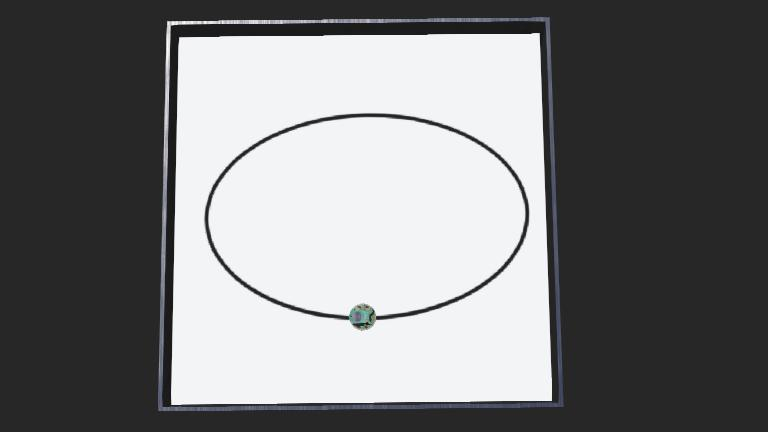
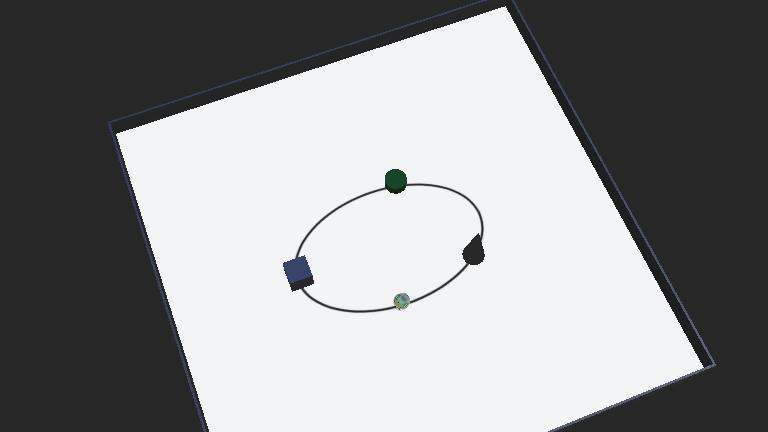
tän päivän muokkaukset, ei toimiva koodi

diff --git a/linefollower/controllers/line_followerrrr/line_followerrrr.py b/linefollower/controllers/line_followerrrr/line_followerrrr.py
@@ -1,91 +1,292 @@
-
 from controller import Robot
+
 
 def line_follower(robot):
     timestep = 32
     max_speed = 6.28
     base_speed = 0.65 * max_speed
 
-    # Motors
+    # Moottorit
     left_motor = robot.getDevice('left wheel motor')
     right_motor = robot.getDevice('right wheel motor')
 
     left_motor.setPosition(float('inf'))
     right_motor.setPosition(float('inf'))
-
     left_motor.setVelocity(0.0)
     right_motor.setVelocity(0.0)
 
-    # IR sensors
+    # Alkuperäiset viiva-anturit
     left_ir = robot.getDevice('ir0')
     right_ir = robot.getDevice('ir1')
-
     left_ir.enable(timestep)
     right_ir.enable(timestep)
 
-    # Tune these values for your robot
+    # E-puckin kahdeksan läheisyysanturia
+    ps_sensors = []
+    for i in range(8):
+        sensor = robot.getDevice('ps' + str(i))
+        sensor.enable(timestep)
+        ps_sensors.append(sensor)
+
+    # Viivanseurannan asetukset
     kp = 0.12
     last_error = 1.0
     lost_count = 0
 
+    # Esteväistön asetukset
+    obstacle_threshold = 100.0
+    turn_speed = 0.35 * max_speed
+    pass_speed = 0.35 * max_speed
+
+    turn_steps = 16
+    min_pass_steps = 35
+    max_pass_steps = 100
+    clear_steps_required = 15
+    max_search_steps = 200
+
+    # Tilat: follow, turn, pass, search
+    state = 'follow'
+    state_count = 0
+    clear_count = 0
+
+    # +1 = väistä vasemmalle
+    # -1 = väistä oikealle
+    avoid_direction = 1
+
     while robot.step(timestep) != -1:
+
+        # Lue kaikki esteanturit
+        ps = [sensor.getValue() for sensor in ps_sensors]
+        if state == 'pass':
+                print(
+                    "Ohitusanturit:",
+                    [round(value, 1) for value in ps]
+                )
+
+        right_strength = max(ps[0], ps[1])
+        left_strength = max(ps[5], ps[6], ps[7])
+
+        obstacle_detected = max(ps) > obstacle_threshold
+
+        # Viiva-anturit
         left = left_ir.getValue()
         right = right_ir.getValue()
 
-        print("Left: {:.2f}, Right: {:.2f}".format(left, right))
-
-        # Treat maximum readings as possible sensor saturation.
-        # Verify this assumption against your sensor configuration.
         left_valid = left < 50
         right_valid = right < 50
 
-        if not left_valid and not right_valid:
-            # Both sensors lost: search in the last known direction.
-            lost_count += 1
-            search_speed = 0.25 * max_speed
+        left_speed = 0.0
+        right_speed = 0.0
 
-            if last_error >= 0:
-                left_speed = search_speed
-                right_speed = -search_speed
+        # 1. NORMAALI VIIVAN SEURAAMINEN
+        if state == 'follow':
+
+            if obstacle_detected:
+                if right_strength > left_strength:
+                    avoid_direction = 1
+                elif left_strength > right_strength:
+                    avoid_direction = -1
+                else:
+                    avoid_direction = 1 if last_error >= 0 else -1
+
+                state = 'turn'
+                state_count = 0
+                clear_count = 0
+                lost_count = 0
+
+                print(
+                    "Este havaittu:",
+                    "oikea =", round(right_strength, 1),
+                    "vasen =", round(left_strength, 1),
+                    "väistösuunta =", avoid_direction
+                )
+
+                left_speed = -avoid_direction * turn_speed
+                right_speed = avoid_direction * turn_speed
+
             else:
-                left_speed = -search_speed
-                right_speed = search_speed
+                # Alkuperäinen viivanseuranta
+                if not left_valid and not right_valid:
+                    lost_count += 1
+                    search_speed = 0.25 * max_speed
 
-            # Stop searching if the line is lost for too long.
-            if lost_count > 100:
+                    if last_error >= 0:
+                        left_speed = search_speed
+                        right_speed = -search_speed
+                    else:
+                        left_speed = -search_speed
+                        right_speed = search_speed
+
+                    if lost_count > 100:
+                        left_speed = 0.0
+                        right_speed = 0.0
+
+                elif not left_valid or not right_valid:
+                    lost_count += 1
+                    search_speed = 0.20 * max_speed
+
+                    if not left_valid:
+                        left_speed = -search_speed
+                        right_speed = search_speed
+                        last_error = -1.0
+                    else:
+                        left_speed = search_speed
+                        right_speed = -search_speed
+                        last_error = 1.0
+
+                else:
+                    lost_count = 0
+                    error = left - right
+
+                    if abs(error) > 0.05:
+                        last_error = error
+
+                    correction = kp * error
+
+                    left_speed = base_speed - correction
+                    right_speed = base_speed + correction
+
+                    left_speed = max(
+                        -max_speed, min(max_speed, left_speed)
+                    )
+                    right_speed = max(
+                        -max_speed, min(max_speed, right_speed)
+                    )
+
+        # 2. KÄÄNNY POIS ESTEESTÄ
+        elif state == 'turn':
+
+            left_speed = -avoid_direction * turn_speed
+            right_speed = avoid_direction * turn_speed
+
+            state_count += 1
+
+            if state_count >= turn_steps:
+                state = 'pass'
+                state_count = 0
+                clear_count = 0
+                print("Käännös valmis, ajetaan esteen ohi")
+
+        # 3. AJA ESTEEN OHI
+        
+        elif state == 'pass':
+
+            state_count += 1
+
+            # Anturiryhmät kuution ohitusta varten.
+            # ps0 ja ps1 reagoivat voimakkaasti esteeseen.
+            right_strength = max(ps[0], ps[1])
+            left_strength = max(ps[5], ps[6], ps[7])
+
+            # Käytetään myös ps2:ta, koska se reagoi
+            # voimakkaasti kuution lähestyessä.
+            front_strength = ps[2]
+
+            # Perusnopeus ohituksen aikana
+            pass_speed = 0.35 * max_speed
+
+            # Voimakas havainto ps0/ps1-ryhmässä:
+            # käännytään poispäin oikean puolen esteestä.
+            # Voimakas havainto vasemmalla:
+            # käännytään poispäin vasemman puolen esteestä.
+            right_pressure = max(0.0, right_strength - 80.0)
+            left_pressure = max(0.0, left_strength - 80.0)
+
+            # Jos etuanturi reagoi voimakkaasti, käännytään
+            # poispäin sen puolen estehavainnosta.
+            front_pressure = max(0.0, front_strength - 100.0)
+
+            # Valitaan ohjaussuunta mitattujen anturien perusteella.
+            steering = right_pressure - left_pressure
+
+            if front_pressure > 0:
+                steering += avoid_direction * front_pressure
+
+            # Rajataan käännöksen voimakkuus
+            turn_amount = min(
+                0.50 * max_speed,
+                0.004 * abs(steering)
+            )
+
+            if steering > 0:
+                # Este havaitaan voimakkaammin oikealla
+                left_speed = pass_speed + turn_amount
+                right_speed = pass_speed - turn_amount
+
+            elif steering < 0:
+                # Este havaitaan voimakkaammin vasemmalla
+                left_speed = pass_speed - turn_amount
+                right_speed = pass_speed + turn_amount
+
+            else:
+                left_speed = pass_speed
+                right_speed = pass_speed
+
+            # Rajataan moottorien nopeudet
+            left_speed = max(
+                -max_speed, min(max_speed, left_speed)
+            )
+            right_speed = max(
+                -max_speed, min(max_speed, right_speed)
+            )
+
+            # Ohitus päättyy vasta, kun este ei enää
+            # laukaise läheisyysantureita riittävän pitkään.
+            if max(ps) > obstacle_threshold:
+                clear_count = 0
+            else:
+                clear_count += 1
+
+            if (
+                state_count >= min_pass_steps
+                and clear_count >= clear_steps_required
+            ) or state_count >= max_pass_steps:
+
+                state = 'search'
+                state_count = 0
+                clear_count = 0
+                print("Ohitusvaihe valmis, etsitään viivaa")
+
+
+        # 4. ETSI MUSTAA VIIVAA
+        elif state == 'search':
+
+            search_speed = 0.22 * max_speed
+            turn_component = 0.28 * max_speed
+
+            left_speed = (
+                search_speed + avoid_direction * turn_component
+            )
+            right_speed = (
+                search_speed - avoid_direction * turn_component
+            )
+
+            left_speed = max(
+                -max_speed, min(max_speed, left_speed)
+            )
+            right_speed = max(
+                -max_speed, min(max_speed, right_speed)
+            )
+
+            state_count += 1
+
+            if left_valid or right_valid:
+                state = 'follow'
+                state_count = 0
+                lost_count = 0
+                print("Viiva löytyi, jatketaan seurantaa")
+
+            elif state_count >= max_search_steps:
                 left_speed = 0.0
                 right_speed = 0.0
 
-        elif not left_valid or not right_valid:
-            # One sensor is saturated: turn cautiously to search.
-            lost_count += 1
-            search_speed = 0.20 * max_speed
+                state = 'follow'
+                state_count = 0
+                lost_count = 101
 
-            if not left_valid:
-                left_speed = -search_speed
-                right_speed = search_speed
-                last_error = -1.0
-            else:
-                left_speed = search_speed
-                right_speed = -search_speed
-                last_error = 1.0
+                print("Viivaa ei löytynyt, robotti pysähtyy")
 
-        else:
-            lost_count = 0
-
-            # Proportional steering.
-            error = left - right
-            last_error = error if abs(error) > 0.05 else last_error
-
-            correction = kp * error
-
-            left_speed = base_speed - correction
-            right_speed = base_speed + correction
-
-            # Keep motor commands within limits.
-            left_speed = max(-max_speed, min(max_speed, left_speed))
-            right_speed = max(-max_speed, min(max_speed, right_speed))
-
+        # Moottorien ohjaus suoritetaan joka kierroksella
         left_motor.setVelocity(left_speed)
         right_motor.setVelocity(right_speed)
 
